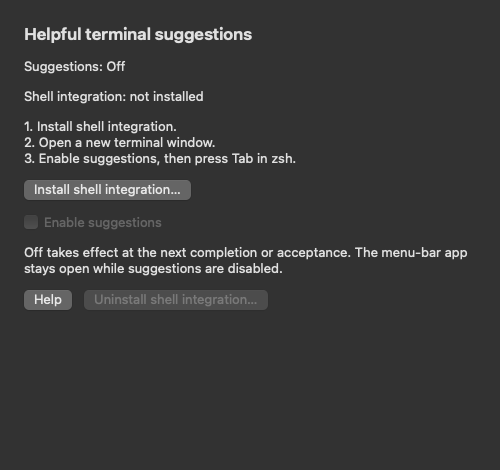
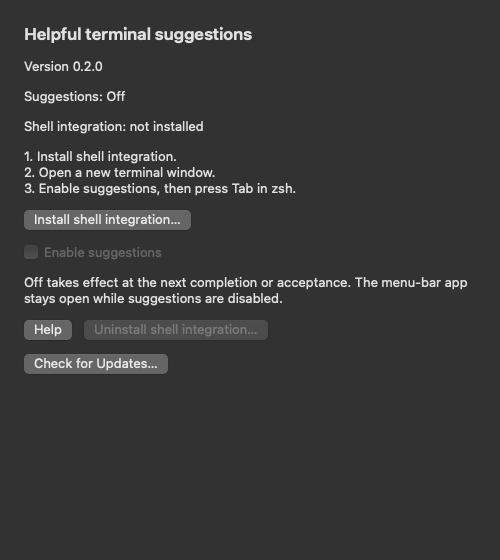
Show the actual versioned native update controls in the installation guide

Changed region(s): [[0.03, 0.0298, 0.93, 0.6851], [0.54, 0.3277, 0.57, 0.3574]]

diff --git a/README.md b/README.md
@@ -32,6 +32,14 @@ The update command downloads the latest published version, verifies its SHA-256 
 
 It does not silently replace or execute a downloaded app. Repository commits alone do not update anyone: a maintainer must publish a new version. There are no timers, startup checks or automatic downloads. [Update details](Docs/UPDATES.md) · [Maintainer release steps](Docs/RELEASING.md)
 
+<details>
+<summary>See the native app</summary>
+
+![Terminal Helper 0.2 Settings in light appearance](.github/images/settings-light.png)
+![Terminal Helper 0.2 Settings in dark appearance](.github/images/settings-dark.png)
+
+</details>
+
 ## What it does
 
 Terminal Helper is a native menu-bar app for interactive zsh. Terminal.app is the primary target; full native-terminal/assistive-technology checks remain in the [manual checklist](Docs/MANUAL-VERIFICATION.md).
